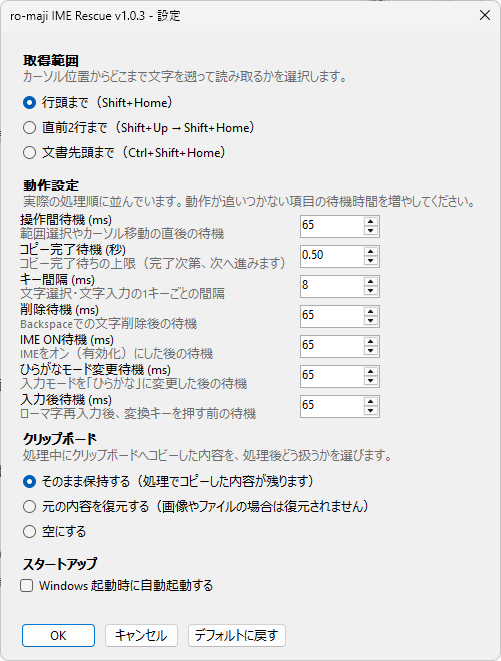
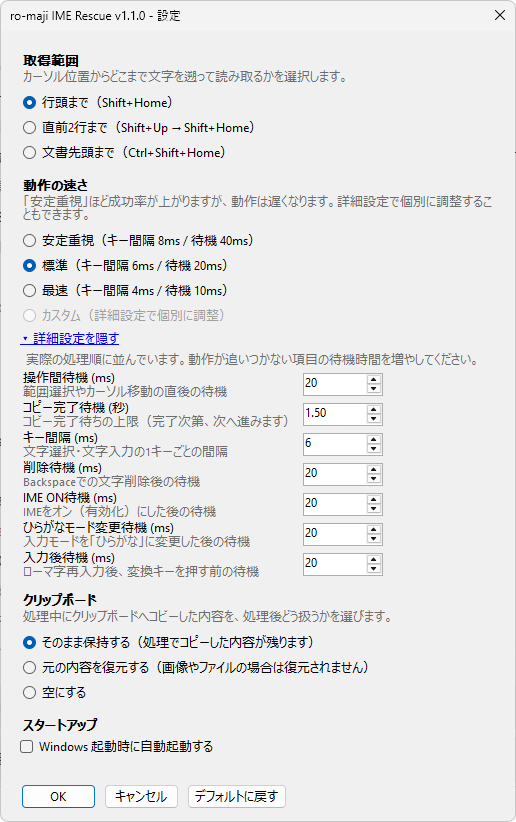
例文を意味の通る日本語にし、設定画面を撮り直す
単独の大文字を示す例が desuI → ですI だった。文として意味をなさず、
なぜこの機能が要るのかが伝わらない。「A社」「B案」のように大文字1文字が
意味を持つ例に差し替える。実機で変換結果を確認したうえで採用した。

  Bandeikimasu → B案で行きます
  Ashanoteian  → A社の提案

更新トーストは大文字1文字の保持だけに絞って短くした。「コピー完了待機の
下限も上げています」は落とす。下限を上げたのは制限であって利点ではなく、
更新の知らせで伝える内容ではない。

設定画面のスクリーンショットを現在の UI で撮り直した。ラベルが「高速」の
ままだったのに加え、節の統合と詳細設定の既定折りたたみも反映されていな
かった。原本は tools/screenshots/ に置く。ウィンドウ枠を検出して影の外側を
切り落としてあり、背後のウィンドウは写り込んでいない。

Changed region(s): [[0.0299, 0.0605, 0.9581, 0.9985], [0.0299, 0.0, 0.3593, 0.0303], [0.9581, 0.0, 0.988, 0.0303]]

diff --git a/index.md b/index.md
@@ -66,7 +66,7 @@ updated: 2026-08-05
 
 <div class="settings">
   <figure class="shot">
-    <img src="assets/img/settings.png" alt="ro-maji IME Rescue の設定画面。取得範囲・動作の速さ（プリセット）・クリップボード・スタートアップの各項目" width="501" height="661" loading="lazy">
+    <img src="assets/img/settings.png" alt="ro-maji IME Rescue の設定画面。取得範囲・動作の速さ（プリセットと詳細設定）・クリップボード・スタートアップの各項目" width="516" height="822" loading="lazy">
   </figure>
   <ul class="settings-list">
     <li><b>取得範囲</b><span>カーソル位置からどこまで文字を遡って読み取るかを選べます。行頭まで／直前2行まで／文書先頭まで。</span></li>
@@ -124,8 +124,8 @@ kyounotenkihaharedeatatakaidesu
 ```
 APIwotukau            → APIを使う
 kyouhaHTMLwobenkyou   → 今日はHTMLを勉強
-desuI                 → ですI
-Cdoraibu              → Cどらいぶ
+Bandeikimasu          → B案で行きます
+Ashanoteian           → A社の提案
 ```
 
 </div>
